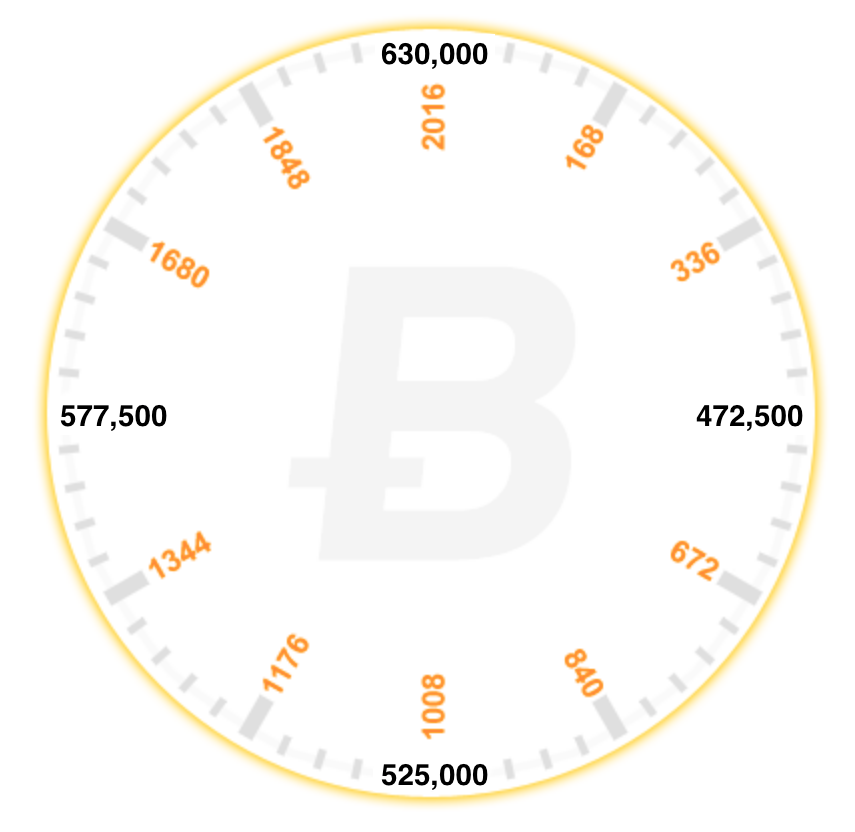
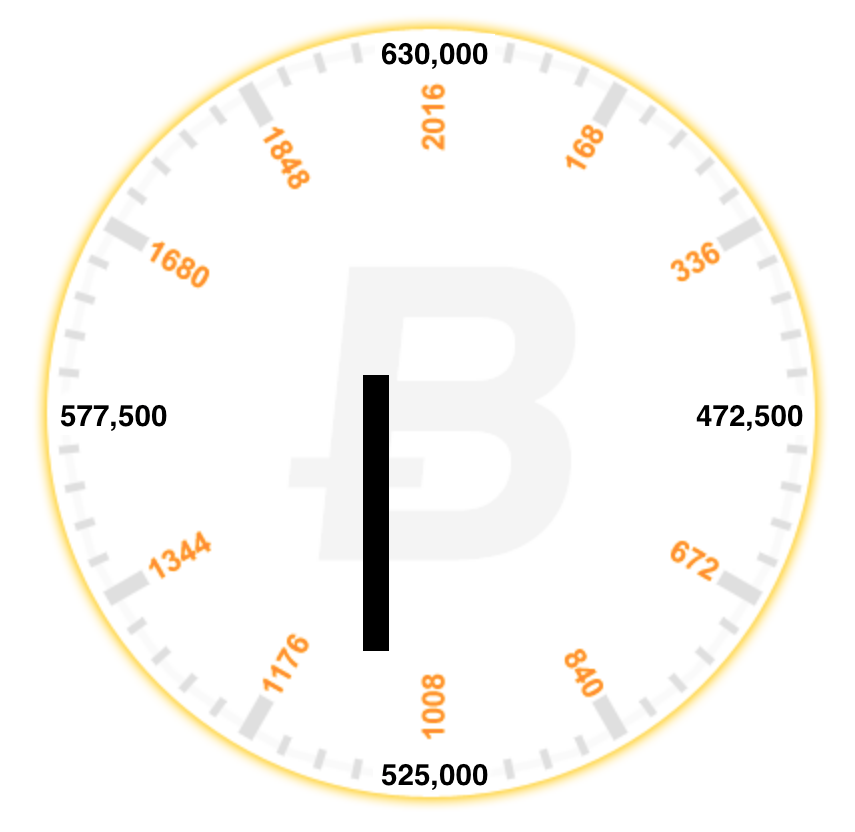
minutes

Changed region(s): [[0.4257, 0.4375, 0.4561, 0.7812]]

diff --git a/style.scss b/style.scss
@@ -13,6 +13,30 @@
 /* BASE RULES */
 /**************/
 
+.clock {
+	width: 100%;
+	background-repeat: no-repeat;
+}
+
+.minutes-container {
+  position: absolute;
+  top: 0;
+  right: 0;
+  bottom: 0;
+  left: 0;
+}
+
+.minutes {
+  background: #000;
+  height: 40%;
+  left: 49%;
+  position: absolute;
+  top: 10%;
+  transform-origin: 50% 100%;
+  width: 2%;
+}
+
+
 html {
   font-size: 100%;
 }
@@ -143,47 +167,7 @@ img {
     clear: both;
 }
 
-.clock {
-  border-radius: 50%;
-  background: #fff url(/clock.png) no-repeat center;
-  background-size: 88%;
-  height: 20em;
-  padding-bottom: 31%;
-  position: relative;
-  width: 20em;
-}
 
-.clock.simple:after {
-  background: #000;
-  border-radius: 50%;
-  content: "";
-  position: absolute;
-  left: 50%;
-  top: 50%;
-  transform: translate(-50%, -50%);
-  width: 5%;
-  height: 5%;
-  z-index: 10;
-}
-
-
-.minutes-container, .hours-container, .seconds-container {
-  position: absolute;
-  top: 0;
-  right: 0;
-  bottom: 0;
-  left: 0;
-}
-
-.minutes {
-  background: #000;
-  height: 40%;
-  left: 49%;
-  position: absolute;
-  top: 10%;
-  transform-origin: 50% 100%;
-  width: 2%;
-}
 
 /*********************/
 /* LAYOUT / SECTIONS */

diff --git a/index.html b/index.html
@@ -48,14 +48,12 @@ title: "Bitcoin Clock: 2020 Bitcoin Halving Countdown"
 <img src="/clock.png" style="width: 500px;display: block;margin: 0 auto;">
 
 
-<article class="clock">
+<div class="clock">
   <div class="minutes-container">
     <div class="minutes"></div>
   </div>
-</article>
+</div>
 
-
-<div class="clock-hand" style="width: 50%; height: 6px; background: black;">
 
 <div id="calc-content-div" style="text-align: center;"></div>
 
